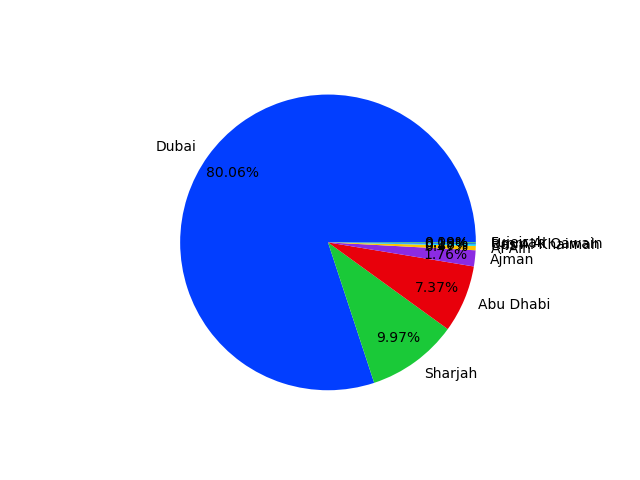
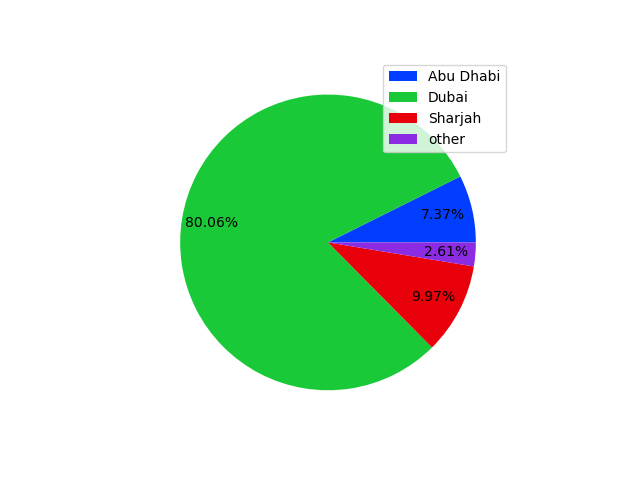
sort the emirates & sum the emirates below 5% of cars to be 'others' & visualize it with pieChart

Changed region(s): [[0.25, 0.125, 0.9375, 0.8125], [0.6562, 0.75, 0.75, 0.8125], [0.75, 0.625, 0.875, 0.6562]]

diff --git a/src/utils/analyser.py b/src/utils/analyser.py
@@ -18,11 +18,19 @@ def main():
     # visualizer = visualizer()
 
     sql_connection.postgres_connect('postgres','123456', 'localhost', '5432', 'UAE_used_cars')
+    
     emirares_df = sql_connection.query_df(emirates_ranking_query)
     emirares_df = emirares_df.sort_values('number_of_cars', ascending= False)
+   
+    print('--------------------')
+    total_cars = emirares_df['number_of_cars'].sum()
+    for record in range(emirares_df.shape[0]):
+        if(emirares_df.iloc[record][1] * 100 / total_cars <= 5):
+            emirares_df.iloc[record, 0] = "other"
+    emirares_df = emirares_df.groupby('emirate', as_index= False)['number_of_cars'].sum()
+    print('---------------------')
+   
+    print(emirares_df)
     visualizer.pieChart_plot(emirares_df['emirate'], emirares_df['number_of_cars'], 'emirates_ranknig_pie')
-    # print(emirares_df)    
-
-
 if __name__ == "__main__":
     main()

diff --git a/src/utils/visualizer.py b/src/utils/visualizer.py
@@ -6,7 +6,8 @@ import seaborn as sns
     
 def pieChart_plot(labels: pd.DataFrame, values: pd.DataFrame, plot_name: str):
     colors = sns.color_palette('bright6')
-    plt.pie(values, labels=labels, colors= colors, autopct='%.2f%%', pctdistance= 0.8)
+    plt.pie(values, colors= colors, autopct='%.2f%%', pctdistance= 0.8)
     plot_path = f'/home/ahmed/projects/data_analysis/projects/ouput/plotting_images/{plot_name}'
+    plt.legend(labels,)
     plt.savefig(plot_path)
     plt.show()
